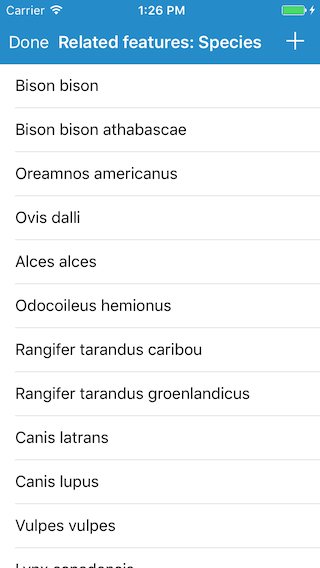
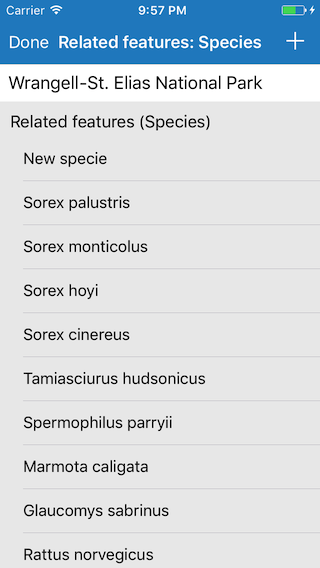
Review changes

diff --git a/arcgis-ios-sdk-samples/Features/Add delete related features/RelatedFeaturesViewController.swift b/arcgis-ios-sdk-samples/Features/Add delete related features/RelatedFeaturesViewController.swift
@@ -20,6 +20,7 @@ import ArcGIS
 class RelatedFeaturesViewController: UIViewController, UITableViewDataSource, UITableViewDelegate {
 
     @IBOutlet private var tableView:UITableView!
+    @IBOutlet private var featureLabel:UILabel!
     
     var originFeature:AGSArcGISFeature!
     var originFeatureTable:AGSServiceFeatureTable!
@@ -32,15 +33,36 @@ class RelatedFeaturesViewController: UIViewController, UITableViewDataSource, UI
 
         //query for related features and populate the table
         self.queryRelatedFeatures()
+        
+        //Displaying information on selected park using the field UNIT_NAME, name of the park
+        self.featureLabel.text = self.originFeature.attributes["UNIT_NAME"] as? String ?? "Origin Feature"
     }
     
     private func queryRelatedFeatures() {
         
+        //get relationship info
+        //feature table's layer info has an array of relationshipInfos, one for each relationship
+        //in this case there is only one describing the 1..M relationship between parks and species
+        guard let relationshipInfo = self.originFeatureTable.layerInfo?.relationshipInfos[0] else {
+            
+            SVProgressHUD.showError(withStatus: "Relationship info not found", maskType: .gradient)
+            return
+        }
+        
         //show progress hud
         SVProgressHUD.show(withStatus: "Querying related features", maskType: .gradient)
         
-        //query related features for orgin feature
-        self.originFeatureTable.queryRelatedFeatures(for: self.originFeature) { [weak self] (results, error) in
+        //keep for later use
+        self.relationshipInfo = relationshipInfo
+        
+        //initialize related query parameters with relationshipInfo
+        let parameters = AGSRelatedQueryParameters(relationshipInfo: relationshipInfo)
+        
+        //order results by OBJECTID field
+        parameters.orderByFields = [AGSOrderBy(fieldName: "OBJECTID", sortOrder: .descending)]
+        
+        //query for species related to the selected park
+        self.originFeatureTable.queryRelatedFeatures(for: self.originFeature, parameters: parameters) { [weak self] (results:[AGSRelatedFeatureQueryResult]?, error:Error?) in
             
             guard error == nil else {
                 SVProgressHUD.showError(withStatus: error!.localizedDescription, maskType: .gradient)
@@ -52,10 +74,10 @@ class RelatedFeaturesViewController: UIViewController, UITableViewDataSource, UI
             
             if let results = results, results.count > 0 {
                 
+                //save the related features to display in the table view
                 self?.relatedFeatures = results[0].featureEnumerator().allObjects
-                self?.relationshipInfo = results[0].relationshipInfo
                 
-                //reload table
+                //reload table view to reflect changes
                 self?.tableView.reloadData()
             }
         }
@@ -83,8 +105,8 @@ class RelatedFeaturesViewController: UIViewController, UITableViewDataSource, UI
                 return
             }
             
-            //query related features to update the table
-            self?.queryRelatedFeatures()
+            //apply edits
+            self?.applyEdits()
         }
     }
     
@@ -104,7 +126,28 @@ class RelatedFeaturesViewController: UIViewController, UITableViewDataSource, UI
                 return
             }
             
-            //query related features to update the table
+            //apply edits
+            self?.applyEdits()
+        }
+    }
+    
+    private func applyEdits() {
+        
+        //show progress hud
+        SVProgressHUD.show(withStatus: "Applying edits", maskType: .gradient)
+        
+        //get the related table using the relationshipInfo
+        let relatedTable = self.originFeatureTable.relatedTables(with: self.relationshipInfo)![0] as! AGSServiceFeatureTable
+        
+        relatedTable.applyEdits { [weak self] (results:[AGSFeatureEditResult]?, error:Error?) in
+            
+            guard error == nil else {
+                //show error
+                SVProgressHUD.showError(withStatus: error?.localizedDescription, maskType: .gradient)
+                return
+            }
+            
+            //query to update features
             self?.queryRelatedFeatures()
         }
     }
@@ -148,26 +191,8 @@ class RelatedFeaturesViewController: UIViewController, UITableViewDataSource, UI
     
     @IBAction private func doneAction() {
 
-        //get the related table using the relationshipInfo
-        let relatedTable = self.originFeatureTable.relatedTables(with: self.relationshipInfo)![0] as! AGSServiceFeatureTable
-        
-        //show progress hud
-        SVProgressHUD.show(withStatus: "Applying edits", maskType: .gradient)
-        
-        //apply edits
-        relatedTable.applyEdits { [weak self] (featureEditResults, error) in
-            
-            //dismiss view controller
-            self?.dismiss(animated: true, completion: nil)
-            
-            guard error == nil else {
-                SVProgressHUD.showError(withStatus: error!.localizedDescription, maskType: .gradient)
-                return
-            }
-            
-            //dismiss progress hud
-            SVProgressHUD.dismiss()
-        }
+        //dismiss view controller
+        self.dismiss(animated: true, completion: nil)
     }
     
     override func didReceiveMemoryWarning() {

diff --git a/arcgis-ios-sdk-samples/Features/Add delete related features/AddDeleteRelatedFeaturesVC.swift b/arcgis-ios-sdk-samples/Features/Add delete related features/AddDeleteRelatedFeaturesVC.swift
@@ -52,10 +52,12 @@ class AddDeleteRelatedFeaturesVC: UIViewController, AGSGeoViewTouchDelegate, AGS
         //add feature layer to the map
         map.operationalLayers.add(self.parksFeatureLayer)
         
-        //species feature table
+        //species feature table (destination feature table)
+        //related to the parks feature layer in a 1..M relationship
         self.speciesFeatureTable = AGSServiceFeatureTable(url: URL(string: "https://services2.arcgis.com/ZQgQTuoyBrtmoGdP/ArcGIS/rest/services/AlaskaNationalParksSpecies_Add_Delete/FeatureServer/1")!)
         
         //add table to the map
+        //for the related query to work, the related table should be present in the map
         map.tables.addObjects(from: [speciesFeatureTable])
         
         //assign map to map view
